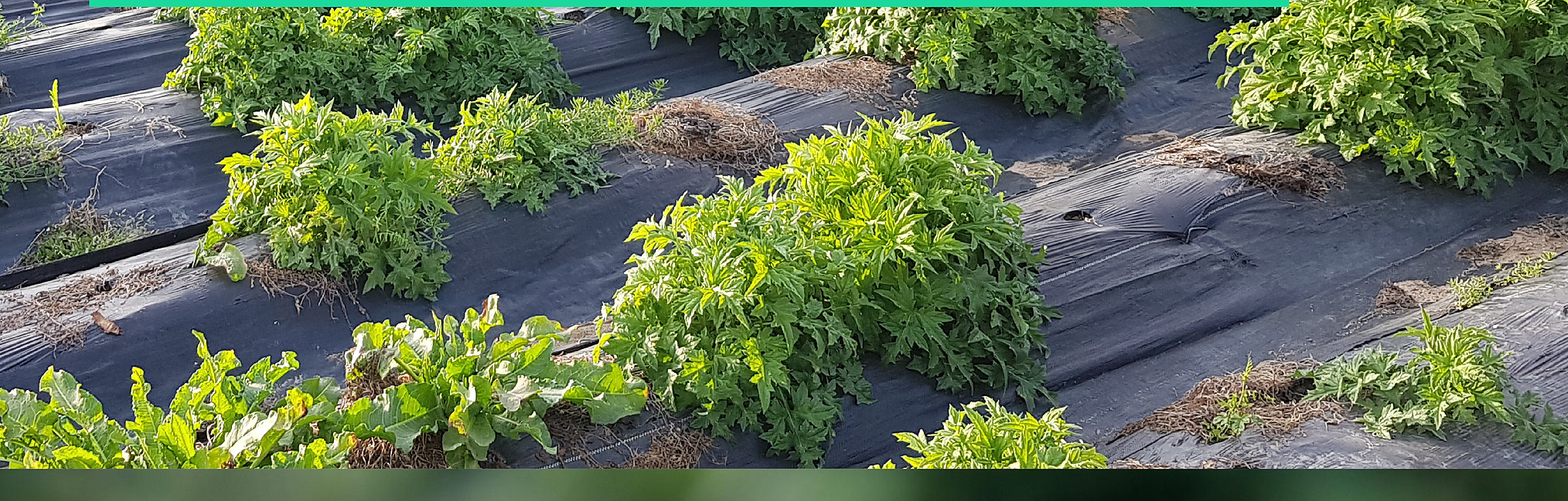
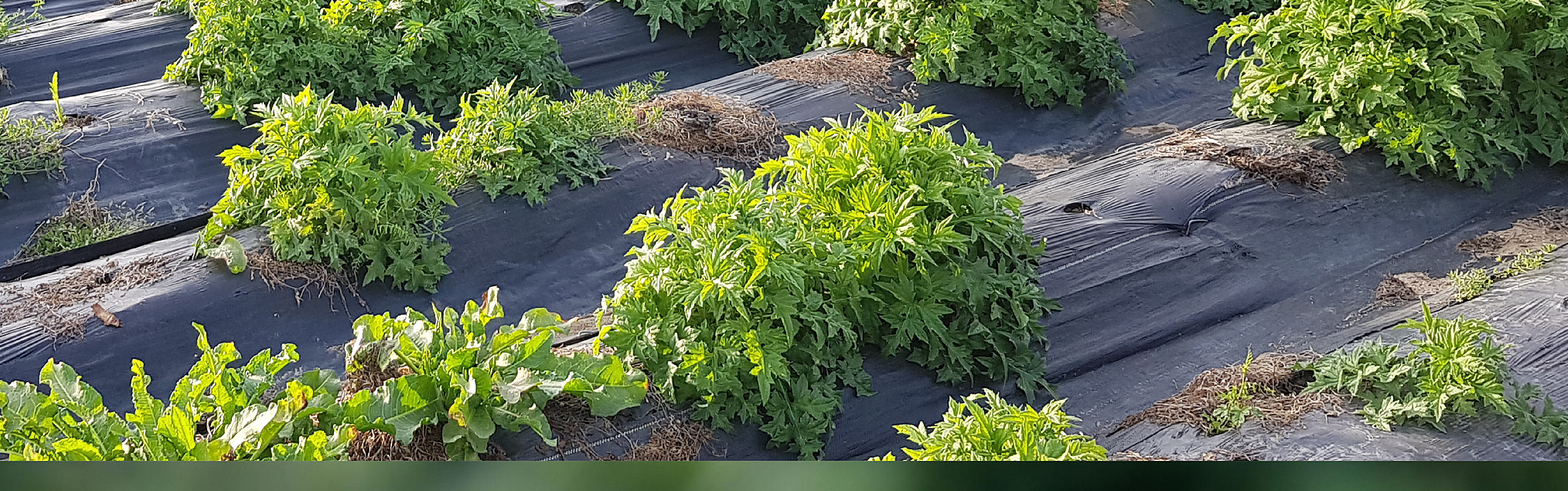
fix(story): 밭 사진 위에 딸려 온 초록 띠 제거
카드에서 잘라낼 때 위 정보상자의 민트 배경(25,217,157)이 22px 남아 있었다.
행 단위로 색을 읽어 경계를 찾고 y=1566 부터 자른다. 틀 비율도 3.19 로 맞춘다.

diff --git a/app/story/page.tsx b/app/story/page.tsx
@@ -108,7 +108,7 @@ export default function StoryPage() {
         한 줄도 없었다. 인증 배지만 걸어 두는 것보다 무엇을 하는지가 강하다.
       */}
       <section className="rise">
-        <div className="relative aspect-[3.12/1] w-full">
+        <div className="relative aspect-[3.19/1] w-full">
           <Image
             src="/images/thistle-field.jpg"
             alt="검정 멀칭 위로 줄지어 자라는 절굿대 밭"
